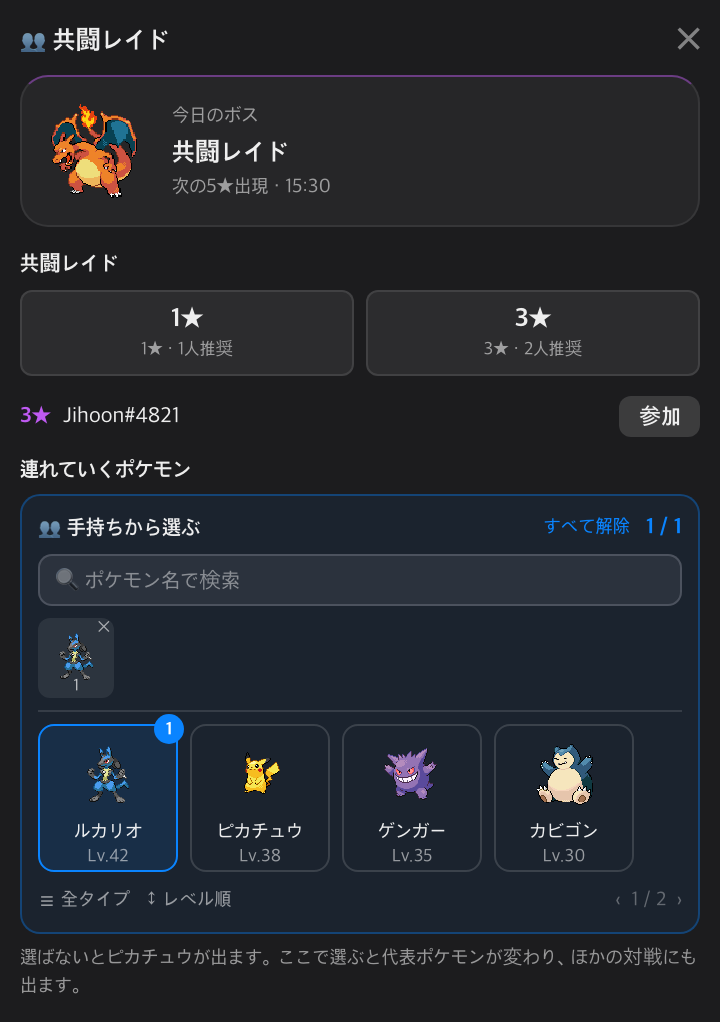
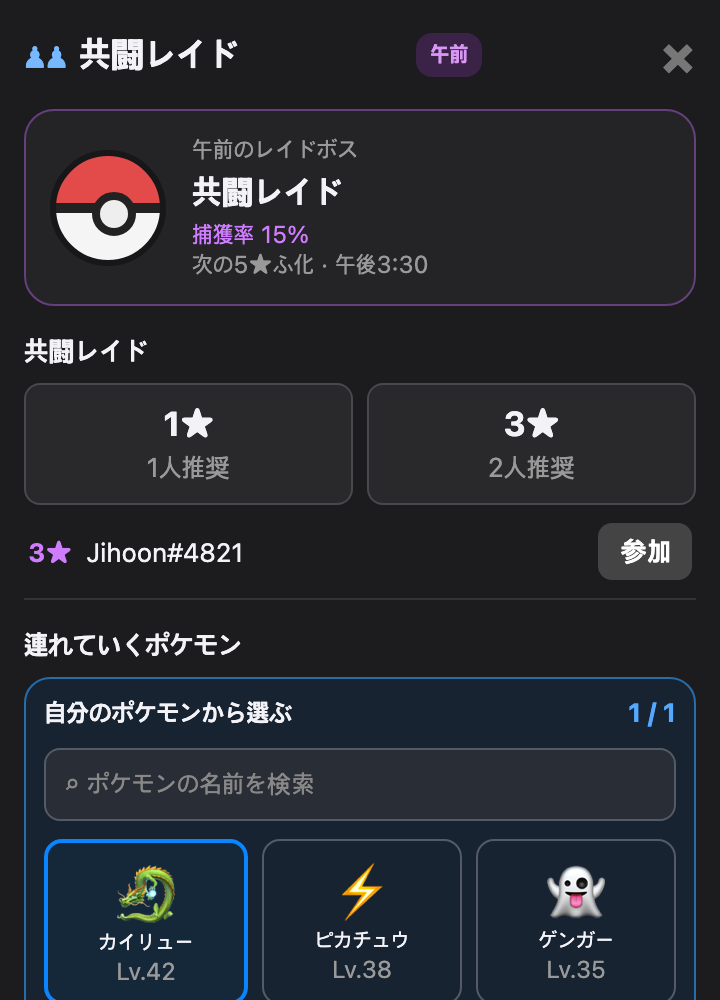
docs: prepare the 2.26.0 release

diff --git a/README.md b/README.md
@@ -44,7 +44,7 @@ Pokédoro는 집중하는 동안 포켓몬 파트너를 모험에 보내고, 수
 - **온라인 배틀 채팅** — 1:1 LAN 랭크배틀과 2~4인 방 배틀에서 전투와 독립된 세션 채팅을 사용합니다. 최근 50개를 내부 스크롤로 확인할 수 있으며, 구버전 1:1 상대와의 배틀에서는 채팅이 비활성화됩니다. 자세한 정책은 [온라인 배틀 자유 채팅](docs/reference/online-battle-chat.md)을 참고하세요.
 - **체육관 쟁탈전** — 같은 네트워크에서 하나의 체육관을 두고 겨루고, 이긴 사람이 관장이 됩니다. 관장은 방어팀 4마리를 세우며 그 넷은 육성·다른 배틀·교환에서 빠집니다. 직접 싸우거나 AI에게 맡길 수 있으며, 배틀 화면에서 다음 턴부터 서로 바꿀 수 있습니다. 관장이 제한 시간 안에 수를 내지 못한 턴이 한 번 나오면 그 뒤로는 AI 방어로 자동 전환되어, 남은 판을 상성까지 보는 AI가 이어 싸웁니다. 도전은 사용자별 5분에 한 번입니다. 배틀 중에는 도전이 막히고 관전만 가능합니다. 양쪽 모두 Lv.50으로 보정되며, 방어에 성공하면 별의조각을 받습니다(3연속마다 보너스, 하루 상한 있음).
 - **포켓슬론: 체인지릴레이** — 혼자 연습하거나 로컬 네트워크에서 최대 4명이 레이스할 수 있습니다. `→`로 달리고 `↑`·`↓`로 레인을 바꾸며, 장애물을 피하고 `C`로 포켓몬을 교체합니다.
-- **협동 레이드** — 같은 네트워크의 트레이너들과 함께 오늘의 보스 하나를 잡습니다. 1★·3★는 아무 때나 열 수 있고, 5★는 하루 세 번 정해진 시각에만 부화합니다(15분 전 알림). 출전 포켓몬은 레이드 화면에서 고르고, 그 선택은 대표 포켓몬으로 저장돼 다른 대전에도 함께 적용됩니다. 정산은 기여도·남은 턴·생존자 수로 계산되며 지급은 하루 한 번입니다. 혼자 도는 판은 티어 기본 보상만 주고 기여도·남은 턴·생존자 항은 두 명부터 붙습니다. 3★ 이상을 둘 이상이 함께 잡으면 끝까지 살아남은 참가자 중 한 명이 추첨으로 보스를 데려가며, 포획은 하루 한 마리입니다.
+- **협동 레이드** — 같은 네트워크의 트레이너들과 함께 보스를 잡습니다. 오전과 오후에 서로 다른 보스가 등장하며, 성공 보상은 각 시간대에 한 번씩 받을 수 있습니다. 보상을 받은 뒤에도 다시 참가할 수 있고 실패한 판은 횟수를 쓰지 않습니다. 성공하면 생존한 참가자마다 고급 25%·희귀 15%·전설 5% 확률로 보스를 포획하며, 결과는 채팅과 함께 한 명씩 차례로 공개됩니다.
 - **포켓몬 토너먼트** — 같은 네트워크에서 2~8명이 대진표로 겨룹니다. 후보 6마리를 공개한 뒤 그중 출전 3마리를 확정하고 전원 Lv.50으로 싸웁니다. 우승자는 알을 받고(참가자 5명부터 고급, 7명부터 희귀 등급이 보장됩니다), 2위 12,000·3~4위 7,000·5~8위 3,000 별의조각이 순위대로 지급됩니다.
 - **포켓몬 경매 시장** — 여러 마리를 한 번에 출품하고, 근처 트레이너가 포켓몬이나 별의조각으로 제안을 보냅니다. 들어온 제안은 목록에서 비교해 수락하거나 거절하며, 별을 단 포켓몬은 출품되지 않습니다.
 
@@ -67,7 +67,7 @@ Pokédoro는 집중하는 동안 포켓몬 파트너를 모험에 보내고, 수
 <tr>
 <td width="55%" valign="middle">
 <h3>포켓몬과 도감</h3>
-보유 포켓몬을 확인하고 파트너를 교체하며, 기술·경험치와 발견한 종을 볼 수 있습니다. 이름으로 검색해 보관함·팀 선택·교환 목록에서 원하는 포켓몬을 바로 찾습니다. 1~9세대 전 종을 다룹니다(움직이는 스프라이트가 없는 9세대 후반 14종은 제외). 아끼는 포켓몬에 별을 달면 놓아주기·교환·경매 출품이 막히고, 머리말의 별로 즐겨찾기만 모아 볼 수 있습니다.
+보유 포켓몬을 확인하고 파트너를 교체하며, 기술·경험치와 발견한 종을 볼 수 있습니다. 이름으로 검색해 보관함·팀 선택·교환 목록에서 원하는 포켓몬을 바로 찾고, 도감번호가 같은 중복 포켓몬만 따로 모아 정리할 수도 있습니다. 포켓몬 탭 밖의 선택 목록은 이름 가나다순으로 표시됩니다. 1~9세대 전 종을 다룹니다(움직이는 스프라이트가 없는 9세대 후반 14종은 제외). 아끼는 포켓몬에 별을 달면 놓아주기·교환·경매 출품이 막히고, 머리말의 별로 즐겨찾기만 모아 볼 수 있습니다.
 </td>
 <td width="45%" align="center"><img src="assets/screenshot-pokemon-favorites-ko.png" width="180" alt="즐겨찾기"><br><br><img src="assets/screenshot-collection-pokedex.png" width="180" alt="도감"><br><br><img src="assets/screenshot-collection-catchlog.png" width="180" alt="포켓몬 수집 기록"></td>
 </tr>

diff --git a/README.en.md b/README.en.md
@@ -41,7 +41,7 @@ You can enable Do Not Disturb to block system notifications, the floating pet, a
 - **Online battle chat** — 1:1 LAN ranked battles and 2–4 player room battles include session-only chat independent of combat. The latest 50 messages stay in an internal scroll area; chat is disabled while battling a legacy 1:1 peer.
 - **Gym Takeover** — one shared gym on your local network: beat the leader and the gym is yours. The leader fields four defenders, and those four are locked out of training, other battles, and trades. Defend in person or let the AI do it, and switch between the two from the battle screen — the change takes effect from the next turn. If the leader ever lets a turn run out, the gym switches to AI defense from then on, so the rest of the match is played by the AI that actually scores type matchups. Each challenger may try once every five minutes, and while a match runs others can only spectate. Both sides are normalized to Lv.50, and a successful defense pays Star Pieces (bonus every third defense, with a daily cap).
 - **Pokéathlon: Change Relay** — practice alone or race with up to four players on a local network. Run with `→`, switch lanes with `↑`/`↓`, avoid obstacles, and change Pokémon with `C`.
-- **Co-op raid** — team up with trainers on your network to take down today's boss. 1★ and 3★ open anytime; 5★ only hatches three set times a day (with a 15-minute-before alert). You choose which Pokémon you bring on the raid screen, and that choice is saved as your representative, so it goes to your other battles too. Payout is based on contribution, turns left, and survivors, and only pays out once per day. A solo run pays the tier base only — the contribution, turns-left, and survivor terms need two runners. Clear a 3★ or higher with two or more trainers and one runner still standing is drawn to take the boss home; that catch is once per day.
+- **Co-op raid** — team up with trainers on your network against a different boss before and after noon. Each half-day pays once; you may keep joining afterward without another reward, while a failed run consumes nothing. On a clear, every surviving runner independently catches the boss at 25% for uncommon, 15% for rare, or 5% for legendary raids, and the results are revealed one trainer at a time beside the chat.
 - **Pokémon tournament** — two to eight trainers on the same network fight through a bracket. Reveal six candidates, confirm the three you send out, and everyone battles at Lv.50. The champion takes an egg home (guaranteed uncommon from five entrants, rare from seven), and Star Pieces pay out by placement: 12,000 for second, 7,000 for third and fourth, 3,000 for fifth through eighth.
 - **Pokémon offer market** — list several Pokémon at once and let nearby trainers offer a Pokémon or Star Pieces for them. Compare the offers in one list and accept or reject each; starred Pokémon cannot be listed.
 
@@ -64,7 +64,7 @@ Choose a focus duration, track the partner's adventure, and claim the completed 
 <tr>
 <td width="55%" valign="middle">
 <h3>Your Pokémon and Pokédex</h3>
-Review your owned Pokémon, select a partner, check moves and experience, and see the species you have discovered. Search by name to pull a Pokémon straight out of the box, team picker, or trade list. Every species from Generations 1–9 is here, minus fourteen late Gen 9 ones that have no animated sprite. Star the ones you want to keep — a favorite cannot be released, traded, or listed on the market, and the header star narrows the box to favorites only.
+Review your owned Pokémon, select a partner, check moves and experience, and see the species you have discovered. Search by name to pull a Pokémon straight out of the box, team picker, or trade list, or show only species for which you own duplicates. Pokémon pickers outside the roster are ordered alphabetically by name. Every species from Generations 1–9 is here, minus fourteen late Gen 9 ones that have no animated sprite. Star the ones you want to keep — a favorite cannot be released, traded, or listed on the market, and the header star narrows the box to favorites only.
 </td>
 <td width="45%" align="center"><img src="assets/screenshot-pokemon-favorites.png" width="180" alt="Favorites"><br><br><img src="assets/screenshot-collection-pokedex.png" width="180" alt="Pokédex collection"><br><br><img src="assets/screenshot-collection-catchlog.png" width="180" alt="Pokémon collection log"></td>
 </tr>
